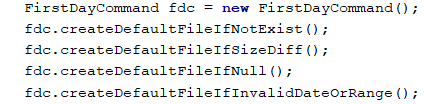
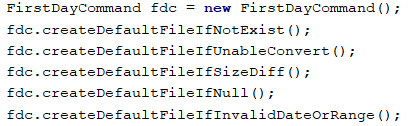
Rebuild pages at af1ff93ed13fb8f35eed93aefe4079bd825b250d

diff --git a/team/crimsonang.html b/team/crimsonang.html
@@ -425,6 +425,10 @@ system date is within academic calendar dates.</p>
 <p><code>FirstDayCommand#createDefaultFileIfNotExist()</code>&#8201;&#8212;&#8201;It creates the default <code>rangeofweek.xml</code> if it does not exist.</p>
 </li>
 <li>
+<p><code>FirstDayCommand#createDefaultFileIfUnableConvert()</code>&#8201;&#8212;&#8201;It creates the default 'rangeofweek.xml' if data is unable
+to convert to be used.</p>
+</li>
+<li>
 <p><code>FirstDayCommand#createDefaultFileIfSizeDiff()</code>&#8201;&#8212;&#8201;It creates the default <code>rangeofweek.xml</code> if the number of
 entries differ from the expected academic number of weeks.</p>
 </li>
@@ -505,7 +509,8 @@ weeks, the <code>UI</code> would display the corresponding week description to t
 </div>
 <div class="paragraph">
 <p>Step 9. When user launch the application,<code>MainApp</code> will create a <code>FirstDayCommand</code> object named <code>fdc</code> to utilise the
-method <code>FirstDayCommand#createDefaultFileIfNotExist</code>, <code>FirstDayCommand#createDefaultFileIfDiffSize</code>,
+method <code>FirstDayCommand#createDefaultFileIfNotExist</code>,
+<code>FirstDayCommand#createDefaultFileIfUnableConvert</code>, <code>FirstDayCommand#createDefaultFileIfDiffSize</code>,
 <code>FirstDayCommand#createDefaultFileIfNull</code> and <code>FirstDayCommand#createDefaultFileIfInvalidDateOrRange</code>.</p>
 </div>
 <div class="paragraph">
@@ -518,7 +523,7 @@ messed up the storage file.</p>
 </div>
 <div class="imageblock">
 <div class="content">
-<img src="../images/FirstDayCommand_DG_MainAppLaunchSnippet.png" alt="FirstDayCommand DG MainAppLaunchSnippet" width="275">
+<img src="../images/FirstDayCommand_DG_MainAppLaunchSnippet.png" alt="FirstDayCommand DG MainAppLaunchSnippet" width="300">
 </div>
 </div>
 <div class="paragraph">
@@ -535,7 +540,7 @@ checking the current system date and the saved academic calendar weeks data. It 
 </div>
 <div class="imageblock">
 <div class="content">
-<img src="../images/FirstDayCommand_UG_Aft.png" alt="FirstDayCommand UG Aft" width="400">
+<img src="../images/FirstDayCommand_UG_Aft.png" alt="FirstDayCommand UG Aft" width="300">
 </div>
 </div>
 <div class="admonitionblock note">
@@ -556,13 +561,13 @@ not exist.
 </div>
 <div class="imageblock">
 <div class="content">
-<img src="../images/FirstDayCommand_DG_SequenceDiagram.png" alt="FirstDayCommand DG SequenceDiagram" width="700">
+<img src="../images/FirstDayCommand_DG_SequenceDiagram.png" alt="FirstDayCommand DG SequenceDiagram" width="650">
 </div>
 <div class="title">Figure 4. Sequence diagram of FirstDay Command</div>
 </div>
 <div class="imageblock">
 <div class="content">
-<img src="../images/LaunchMainApp_DG_SequenceDiagram.png" alt="LaunchMainApp DG SequenceDiagram" width="700">
+<img src="../images/LaunchMainApp_DG_SequenceDiagram.png" alt="LaunchMainApp DG SequenceDiagram" width="650">
 </div>
 <div class="title">Figure 5. Sequence diagram of launching MainApp</div>
 </div>
@@ -639,4 +644,4 @@ description for each weeks.</p>
 </div>
 </div>
 </div>
-</div></div><div id="footer"><div class="container"><div id="footer-text">Last updated 2018-11-07 13:25:14 UTC</div></div></div></body></html>
+</div></div><div id="footer"><div class="container"><div id="footer-text">Last updated 2018-11-07 14:28:03 UTC</div></div></div></body></html>

diff --git a/DeveloperGuide.html b/DeveloperGuide.html
@@ -1110,6 +1110,10 @@ system date is within academic calendar dates.</p>
 <p><code>FirstDayCommand#createDefaultFileIfNotExist()</code>&#8201;&#8212;&#8201;It creates the default <code>rangeofweek.xml</code> if it does not exist.</p>
 </li>
 <li>
+<p><code>FirstDayCommand#createDefaultFileIfUnableConvert()</code>&#8201;&#8212;&#8201;It creates the default 'rangeofweek.xml' if data is unable
+to convert to be used.</p>
+</li>
+<li>
 <p><code>FirstDayCommand#createDefaultFileIfSizeDiff()</code>&#8201;&#8212;&#8201;It creates the default <code>rangeofweek.xml</code> if the number of
 entries differ from the expected academic number of weeks.</p>
 </li>
@@ -1190,7 +1194,8 @@ weeks, the <code>UI</code> would display the corresponding week description to t
 </div>
 <div class="paragraph">
 <p>Step 9. When user launch the application,<code>MainApp</code> will create a <code>FirstDayCommand</code> object named <code>fdc</code> to utilise the
-method <code>FirstDayCommand#createDefaultFileIfNotExist</code>, <code>FirstDayCommand#createDefaultFileIfDiffSize</code>,
+method <code>FirstDayCommand#createDefaultFileIfNotExist</code>,
+<code>FirstDayCommand#createDefaultFileIfUnableConvert</code>, <code>FirstDayCommand#createDefaultFileIfDiffSize</code>,
 <code>FirstDayCommand#createDefaultFileIfNull</code> and <code>FirstDayCommand#createDefaultFileIfInvalidDateOrRange</code>.</p>
 </div>
 <div class="paragraph">
@@ -1209,7 +1214,7 @@ checking the current system date and the saved academic calendar weeks data. It 
 </div>
 <div class="imageblock">
 <div class="content">
-<img src="images/FirstDayCommand_UG_Aft.png" alt="FirstDayCommand UG Aft" width="400">
+<img src="images/FirstDayCommand_UG_Aft.png" alt="FirstDayCommand UG Aft" width="300">
 </div>
 </div>
 <div class="admonitionblock note">
@@ -1230,13 +1235,13 @@ not exist.
 </div>
 <div class="imageblock">
 <div class="content">
-<img src="images/FirstDayCommand_DG_SequenceDiagram.png" alt="FirstDayCommand DG SequenceDiagram" width="700">
+<img src="images/FirstDayCommand_DG_SequenceDiagram.png" alt="FirstDayCommand DG SequenceDiagram" width="650">
 </div>
 <div class="title">Figure 12. Sequence diagram of FirstDay Command</div>
 </div>
 <div class="imageblock">
 <div class="content">
-<img src="images/LaunchMainApp_DG_SequenceDiagram.png" alt="LaunchMainApp DG SequenceDiagram" width="700">
+<img src="images/LaunchMainApp_DG_SequenceDiagram.png" alt="LaunchMainApp DG SequenceDiagram" width="650">
 </div>
 <div class="title">Figure 13. Sequence diagram of launching MainApp</div>
 </div>
@@ -2830,4 +2835,4 @@ Expected: Similar to previous.</p>
 </div>
 </div>
 </div>
-</div></div><div id="footer"><div class="container"><div id="footer-text">Last updated 2018-11-07 13:25:14 UTC</div></div></div></body></html>
+</div></div><div id="footer"><div class="container"><div id="footer-text">Last updated 2018-11-07 14:28:03 UTC</div></div></div></body></html>

diff --git a/HelpWindow.html b/HelpWindow.html
@@ -1210,4 +1210,4 @@ Example:<br>
 <strong>A</strong>: Install the app in the other computer and overwrite the empty data file it creates with the file that contains the data of your previous Schedule planner folder.</p>
 </div>
 </div>
-</div></div><div id="footer"><div class="container"><div id="footer-text">Last updated 2018-11-07 13:25:14 UTC</div></div></div></body></html>
+</div></div><div id="footer"><div class="container"><div id="footer-text">Last updated 2018-11-07 14:28:03 UTC</div></div></div></body></html>

diff --git a/UserGuide.html b/UserGuide.html
@@ -1210,4 +1210,4 @@ Example:<br>
 <strong>A</strong>: Install the app in the other computer and overwrite the empty data file it creates with the file that contains the data of your previous Schedule planner folder.</p>
 </div>
 </div>
-</div></div><div id="footer"><div class="container"><div id="footer-text">Last updated 2018-11-07 13:25:14 UTC</div></div></div></body></html>
+</div></div><div id="footer"><div class="container"><div id="footer-text">Last updated 2018-11-07 14:28:03 UTC</div></div></div></body></html>

diff --git a/team/park-sang-jun.html b/team/park-sang-jun.html
@@ -391,4 +391,4 @@ pointing to the latest state in the <code>schedulePlannerStateList</code>, all s
 <p><em>{Optionally, you may include other projects in your portfolio.}</em></p>
 </div>
 </div>
-</div></div><div id="footer"><div class="container"><div id="footer-text">Last updated 2018-11-07 13:25:14 UTC</div></div></div></body></html>
+</div></div><div id="footer"><div class="container"><div id="footer-text">Last updated 2018-11-07 14:28:03 UTC</div></div></div></body></html>

diff --git a/team/thaddeuslzy.html b/team/thaddeuslzy.html
@@ -420,4 +420,4 @@ pointing to the latest state in the <code>schedulePlannerStateList</code>, all s
 <p><em>{Optionally, you may include other projects in your portfolio.}</em></p>
 </div>
 </div>
-</div></div><div id="footer"><div class="container"><div id="footer-text">Last updated 2018-11-07 13:25:14 UTC</div></div></div></body></html>
+</div></div><div id="footer"><div class="container"><div id="footer-text">Last updated 2018-11-07 14:28:03 UTC</div></div></div></body></html>

diff --git a/team/woodnsuns.html b/team/woodnsuns.html
@@ -347,4 +347,4 @@ pointing to the latest state in the <code>schedulePlannerStateList</code>, all s
 <p><em>{Optionally, you may include other projects in your portfolio.}</em></p>
 </div>
 </div>
-</div></div><div id="footer"><div class="container"><div id="footer-text">Last updated 2018-11-07 13:25:14 UTC</div></div></div></body></html>
+</div></div><div id="footer"><div class="container"><div id="footer-text">Last updated 2018-11-07 14:28:03 UTC</div></div></div></body></html>

diff --git a/ContactUs.html b/ContactUs.html
@@ -9,4 +9,4 @@
 <p><strong>Contributing</strong> : We welcome pull requests. Follow the process described <a href="https://github.com/oss-generic/process">here</a></p>
 </li>
 </ul>
-</div></div><div id="footer"><div class="container"><div id="footer-text">Last updated 2018-11-07 13:25:14 UTC</div></div></div></body></html>
+</div></div><div id="footer"><div class="container"><div id="footer-text">Last updated 2018-11-07 14:28:03 UTC</div></div></div></body></html>

diff --git a/UsingGradle.html b/UsingGradle.html
@@ -255,4 +255,4 @@ See <code>build.gradle</code> &#8594; <code>allprojects</code> &#8594; <code>dep
 </ul>
 </div>
 </div>
-</div></div><div id="footer"><div class="container"><div id="footer-text">Last updated 2018-11-07 13:25:14 UTC</div></div></div></body></html>
+</div></div><div id="footer"><div class="container"><div id="footer-text">Last updated 2018-11-07 14:28:03 UTC</div></div></div></body></html>

diff --git a/UsingNetlify.html b/UsingNetlify.html
@@ -123,4 +123,4 @@ The publish directory is the directory in which the built HTML documentation res
 </ol>
 </div>
 </div>
-</div></div><div id="footer"><div class="container"><div id="footer-text">Last updated 2018-11-07 13:25:14 UTC</div></div></div></body></html>
+</div></div><div id="footer"><div class="container"><div id="footer-text">Last updated 2018-11-07 14:28:03 UTC</div></div></div></body></html>

diff --git a/team/hotarumin.html b/team/hotarumin.html
@@ -307,4 +307,4 @@ Users can choose to upload their own images or use images uploaded by other user
 </div>
 <hr>
 </div>
-</div></div><div id="footer"><div class="container"><div id="footer-text">Last updated 2018-11-07 13:25:14 UTC</div></div></div></body></html>
+</div></div><div id="footer"><div class="container"><div id="footer-text">Last updated 2018-11-07 14:28:03 UTC</div></div></div></body></html>

diff --git a/UsingCoveralls.html b/UsingCoveralls.html
@@ -96,4 +96,4 @@ If you have not set up Travis CI, see <a href="UsingTravis.html">UsingTravis.ado
 </ol>
 </div>
 </div>
-</div></div><div id="footer"><div class="container"><div id="footer-text">Last updated 2018-11-07 13:25:14 UTC</div></div></div></body></html>
+</div></div><div id="footer"><div class="container"><div id="footer-text">Last updated 2018-11-07 14:28:03 UTC</div></div></div></body></html>
